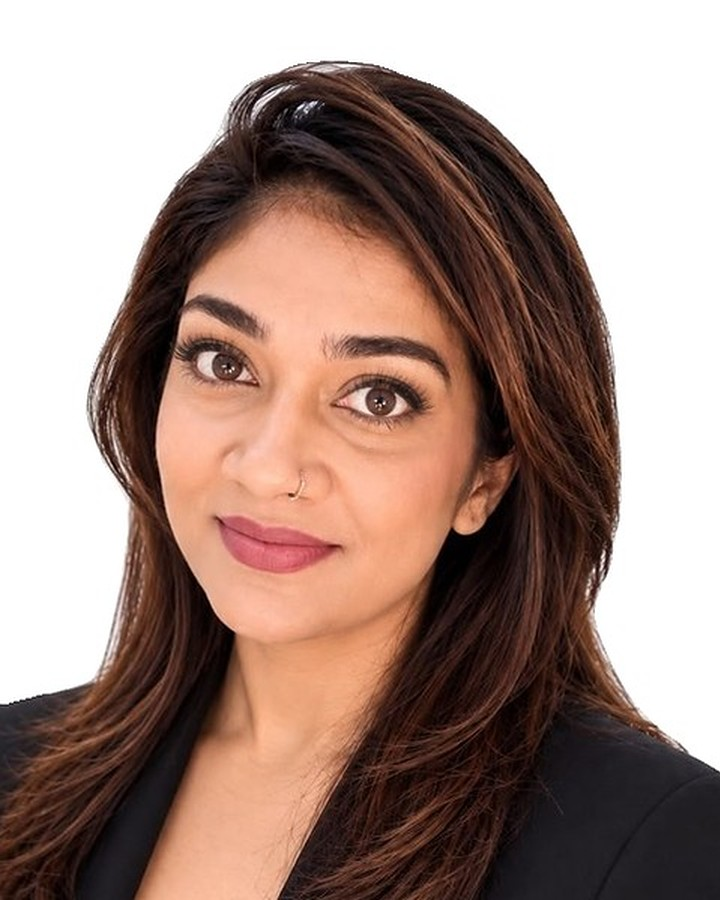
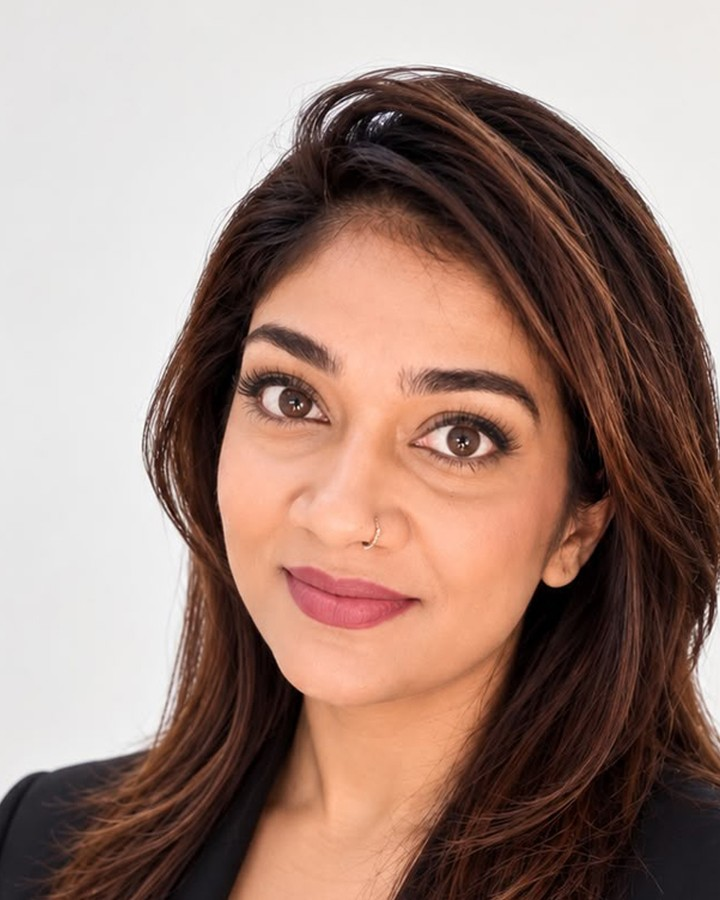
Full size photos: Avishna, Divya, Iqbal, Ali Sattar

diff --git a/meet-the-team.html b/meet-the-team.html
@@ -22,50 +22,50 @@
 <nav class="nav" id="nav" aria-label="Main"><a href="invest-in-dubai.html"><span>Invest in Dubai</span></a><a href="services.html"><span>Services</span></a><a href="areas.html"><span>Areas</span></a><a href="meet-the-team.html" aria-current=page><span>The Team</span></a><a href="contact.html"><span>Private Consultation</span></a><a class="nav-x" href="https://www.bayut.com/companies/7ei8ht6-properties-8883/" target="_blank" rel="noopener"><span>View Properties</span></a></nav>
 <div class="hdr-r"><button class="lang" type="button" aria-pressed="false" aria-label="Show key headings in Arabic"><span class="l-en">EN</span><span class="l-ar" lang="ar">عربي</span></button>
 <button class="burger" aria-label="Open menu" aria-expanded="false" aria-controls="nav"><i></i><i></i></button></div></header>
-<main id="main"><section class="sub-hero"><div class="sub-bg" data-speed="0.22"><picture class=""><source media="(max-width:760px)" srcset="img/x-night-m.webp?v=12"><img src="img/x-night.webp" alt="Downtown Dubai at night" fetchpriority=high decoding="async"></picture></div><div class="sub-shade"></div>
+<main id="main"><section class="sub-hero"><div class="sub-bg" data-speed="0.22"><picture class=""><source media="(max-width:760px)" srcset="img/x-night-m.webp?v=13"><img src="img/x-night.webp" alt="Downtown Dubai at night" fetchpriority=high decoding="async"></picture></div><div class="sub-shade"></div>
 <div class="sub-in"><p class="kicker"><span>The team</span></p><h1 class="bi d1"><span class="en">38 people.<br>One advisor for you.</span><span class="ar" lang="ar" dir="rtl">فريقنا</span></h1><p class="lead">Every client is given one named advisor. You can reach any of us directly: the numbers below are our own.</p></div></section>
-<section class="leaders solo wrap"><article class="leader rv"><div class="ph"><img src="img/t-fayyaz.webp?v=12" alt="Portrait of Fayyaz (Abu Mustafa) Sayani" loading="lazy" decoding="async"></div>
+<section class="leaders solo wrap"><article class="leader rv"><div class="ph"><img src="img/t-fayyaz.webp?v=13" alt="Portrait of Fayyaz (Abu Mustafa) Sayani" loading="lazy" decoding="async"></div>
 <div class="ld-c"><p class="kicker"><span>Founder &amp; CEO</span></p><h2 class="d2">Fayyaz (Abu Mustafa) Sayani</h2><p class="rera">RERA No. 28370</p><p class="mc"><a href="tel:+971506468786">+971 50 646 8786</a><a href="mailto:fayyaz@7ei8ht6properties.com">fayyaz@7ei8ht6properties.com</a><a href="https://wa.me/971506468786" target="_blank" rel="noopener" aria-label="WhatsApp Fayyaz (Abu Mustafa) Sayani">WhatsApp</a></p></div></article></section>
 <section class="team wrap"><div class="filters" role="group" aria-label="Filter the team">
 <button class="chip on" data-f="all">Everyone (37)</button><button class="chip" data-f="Director">Director</button><button class="chip" data-f="Associate Director">Associate Director</button><button class="chip" data-f="Office Manager">Office Manager</button><button class="chip" data-f="Executive Assistant">Executive Assistant</button><button class="chip" data-f="Administrative Assistant">Administrative Assistant</button><button class="chip" data-f="Property Consultant">Property Consultant</button><button class="chip" data-f="Office Clerk">Office Clerk</button><button class="chip" data-f="Admin Assistant">Admin Assistant</button>
 <label class="search"><span class="sr">Search the team</span><input type="search" id="tsearch" placeholder="Search by name"></label></div>
-<div class="grid"><article class="member" data-role="Director" data-name="zahir alimahomed"><div class="ph"><img src="img/t-zahir.webp?v=12" alt="Portrait of Zahir Alimahomed" loading="lazy" decoding="async"></div>
-<div class="mi"><h3>Zahir Alimahomed</h3><p class="role">Director</p><p class="rera">RERA No. 86228</p><p class="mc"><a href="tel:+971528447229">+971 52 844 7229</a><a href="https://wa.me/971528447229" target="_blank" rel="noopener" aria-label="WhatsApp Zahir Alimahomed">WhatsApp</a></p></div></article><article class="member" data-role="Associate Director" data-name="iqbal ahmed abdullah"><div class="ph"><img src="img/t-iqbal.webp?v=12" alt="Portrait of Iqbal Ahmed Abdullah" loading="lazy" decoding="async"></div>
-<div class="mi"><h3>Iqbal Ahmed Abdullah</h3><p class="role">Associate Director</p><p class="mc"><a href="tel:+971506770131">+971 50 677 0131</a><a href="https://wa.me/971506770131" target="_blank" rel="noopener" aria-label="WhatsApp Iqbal Ahmed Abdullah">WhatsApp</a></p></div></article><article class="member" data-role="Office Manager" data-name="asha nagarupillai"><div class="ph"><img src="img/t-asha.webp?v=12" alt="Portrait of Asha Nagarupillai" loading="lazy" decoding="async"></div>
-<div class="mi"><h3>Asha Nagarupillai</h3><p class="role">Office Manager</p><p class="mc"><a href="tel:+971552410447">+971 55 241 0447</a><a href="https://wa.me/971552410447" target="_blank" rel="noopener" aria-label="WhatsApp Asha Nagarupillai">WhatsApp</a></p></div></article><article class="member" data-role="Executive Assistant" data-name="aiswarya rajeev"><div class="ph"><img src="img/t-aiswarya.webp?v=12" alt="Portrait of Aiswarya Rajeev" loading="lazy" decoding="async"></div>
-<div class="mi"><h3>Aiswarya Rajeev</h3><p class="role">Executive Assistant</p><p class="mc"><a href="tel:+971588008311">+971 58 800 8311</a><a href="https://wa.me/971588008311" target="_blank" rel="noopener" aria-label="WhatsApp Aiswarya Rajeev">WhatsApp</a></p></div></article><article class="member" data-role="Administrative Assistant" data-name="avishna ganesh"><div class="ph"><img src="img/t-avishna.webp?v=12" alt="Portrait of Avishna Ganesh" loading="lazy" decoding="async"></div>
-<div class="mi"><h3>Avishna Ganesh</h3><p class="role">Administrative Assistant</p><p class="mc"><a href="tel:+971508625664">+971 50 862 5664</a><a href="https://wa.me/971508625664" target="_blank" rel="noopener" aria-label="WhatsApp Avishna Ganesh">WhatsApp</a></p></div></article><article class="member" data-role="Associate Director" data-name="muhammad ali abdul sattar"><div class="ph"><img src="img/t-alisattar.webp?v=12" alt="Portrait of Muhammad Ali Abdul Sattar" loading="lazy" decoding="async"></div>
-<div class="mi"><h3>Muhammad Ali Abdul Sattar</h3><p class="role">Associate Director</p><p class="mc"><a href="tel:+971554243200">+971 55 424 3200</a><a href="https://wa.me/971554243200" target="_blank" rel="noopener" aria-label="WhatsApp Muhammad Ali Abdul Sattar">WhatsApp</a></p></div></article><article class="member" data-role="Property Consultant" data-name="divya prakash"><div class="ph"><img src="img/t-divya.webp?v=12" alt="Portrait of Divya Prakash" loading="lazy" decoding="async"></div>
-<div class="mi"><h3>Divya Prakash</h3><p class="role">Property Consultant</p><p class="rera">RERA No. 100215</p><p class="mc"><a href="tel:+971501475717">+971 50 147 5717</a><a href="https://wa.me/971501475717" target="_blank" rel="noopener" aria-label="WhatsApp Divya Prakash">WhatsApp</a></p></div></article><article class="member" data-role="Property Consultant" data-name="khalid awadh"><div class="ph"><img src="img/t-khalid.webp?v=12" alt="Portrait of Khalid Awadh" loading="lazy" decoding="async"></div>
-<div class="mi"><h3>Khalid Awadh</h3><p class="role">Property Consultant</p><p class="rera">RERA No. 30126</p><p class="mc"><a href="tel:+971556207707">+971 55 620 7707</a><a href="https://wa.me/971556207707" target="_blank" rel="noopener" aria-label="WhatsApp Khalid Awadh">WhatsApp</a></p></div></article><article class="member" data-role="Property Consultant" data-name="yousaf nouman"><div class="ph"><img src="img/t-yousaf.webp?v=12" alt="Portrait of Yousaf Nouman" loading="lazy" decoding="async"></div>
-<div class="mi"><h3>Yousaf Nouman</h3><p class="role">Property Consultant</p><p class="rera">RERA No. 42532</p><p class="mc"><a href="tel:+971559168978">+971 55 916 8978</a><a href="https://wa.me/971559168978" target="_blank" rel="noopener" aria-label="WhatsApp Yousaf Nouman">WhatsApp</a></p></div></article><article class="member" data-role="Property Consultant" data-name="mohamed rimnaz"><div class="ph"><img src="img/t-rimnaz.webp?v=12" alt="Portrait of Mohamed Rimnaz" loading="lazy" decoding="async"></div>
-<div class="mi"><h3>Mohamed Rimnaz</h3><p class="role">Property Consultant</p><p class="rera">RERA No. 58866</p><p class="mc"><a href="tel:+971551082177">+971 55 108 2177</a><a href="https://wa.me/971563727202" target="_blank" rel="noopener" aria-label="WhatsApp Mohamed Rimnaz">WhatsApp</a></p></div></article><article class="member" data-role="Property Consultant" data-name="shabnam gulamzada"><div class="ph"><img src="img/t-shabnam.webp?v=12" alt="Portrait of Shabnam Gulamzada" loading="lazy" decoding="async"></div>
-<div class="mi"><h3>Shabnam Gulamzada</h3><p class="role">Property Consultant</p><p class="mc"><a href="tel:+971544786999">+971 54 478 6999</a><a href="https://wa.me/971544786999" target="_blank" rel="noopener" aria-label="WhatsApp Shabnam Gulamzada">WhatsApp</a></p></div></article><article class="member" data-role="Property Consultant" data-name="mohammed abdul arbaaz"><div class="ph"><img src="img/t-arbaaz.webp?v=12" alt="Portrait of Mohammed Abdul Arbaaz" loading="lazy" decoding="async"></div>
-<div class="mi"><h3>Mohammed Abdul Arbaaz</h3><p class="role">Property Consultant</p><p class="rera">RERA No. 88888</p><p class="mc"><a href="tel:+971553020319">+971 55 302 0319</a><a href="https://wa.me/971553020319" target="_blank" rel="noopener" aria-label="WhatsApp Mohammed Abdul Arbaaz">WhatsApp</a></p></div></article><article class="member" data-role="Property Consultant" data-name="rahmath khan mohammed"><div class="ph"><img src="img/t-kashif.webp?v=12" alt="Portrait of Rahmath Khan Mohammed" loading="lazy" decoding="async"></div>
-<div class="mi"><h3>Rahmath Khan Mohammed</h3><p class="role">Property Consultant</p><p class="rera">RERA No. 89787</p><p class="mc"><a href="tel:+971564946215">+971 56 494 6215</a><a href="https://wa.me/971564946215" target="_blank" rel="noopener" aria-label="WhatsApp Rahmath Khan Mohammed">WhatsApp</a></p></div></article><article class="member" data-role="Property Consultant" data-name="saoud faisal bayazeed"><div class="ph"><img src="img/t-saoud.webp?v=12" alt="Portrait of Saoud Faisal Bayazeed" loading="lazy" decoding="async"></div>
-<div class="mi"><h3>Saoud Faisal Bayazeed</h3><p class="role">Property Consultant</p><p class="rera">RERA No. 88889</p><p class="mc"><a href="tel:+971521298470">+971 52 129 8470</a><a href="https://wa.me/971521298470" target="_blank" rel="noopener" aria-label="WhatsApp Saoud Faisal Bayazeed">WhatsApp</a></p></div></article><article class="member" data-role="Property Consultant" data-name="muhammad zain alimahomed"><div class="ph"><img src="img/t-zain.webp?v=12" alt="Portrait of Muhammad Zain Alimahomed" loading="lazy" decoding="async"></div>
-<div class="mi"><h3>Muhammad Zain Alimahomed</h3><p class="role">Property Consultant</p><p class="mc"><a href="tel:+97144439780">+971 4 443 9780</a></p></div></article><article class="member" data-role="Office Clerk" data-name="teresa materum"><div class="ph"><img src="img/t-teresa.webp?v=12" alt="Portrait of Teresa Materum" loading="lazy" decoding="async"></div>
-<div class="mi"><h3>Teresa Materum</h3><p class="role">Office Clerk</p><p class="mc"><a href="tel:+97144439780">+971 4 443 9780</a></p></div></article><article class="member" data-role="Office Clerk" data-name="jessa abaya lopez"><div class="ph"><img src="img/t-jessa.webp?v=12" alt="Portrait of Jessa Abaya Lopez" loading="lazy" decoding="async"></div>
-<div class="mi"><h3>Jessa Abaya Lopez</h3><p class="role">Office Clerk</p><p class="mc"><a href="tel:+97144439780">+971 4 443 9780</a></p></div></article><article class="member" data-role="Office Clerk" data-name="rhea ann banares"><div class="ph"><img src="img/t-rhea.webp?v=12" alt="Portrait of Rhea Ann Banares" loading="lazy" decoding="async"></div>
-<div class="mi"><h3>Rhea Ann Banares</h3><p class="role">Office Clerk</p><p class="mc"><a href="tel:+97144439780">+971 4 443 9780</a></p></div></article><article class="member" data-role="Property Consultant" data-name="mohammed jeelani gulam"><div class="ph"><img src="img/t-jeelani.webp?v=12" alt="Portrait of Mohammed Jeelani Gulam" loading="lazy" decoding="async"></div>
-<div class="mi"><h3>Mohammed Jeelani Gulam</h3><p class="role">Property Consultant</p><p class="mc"><a href="tel:+97144439780">+971 4 443 9780</a></p></div></article><article class="member" data-role="Property Consultant" data-name="muhammad junaid azhar"><div class="ph"><img src="img/t-junaid.webp?v=12" alt="Portrait of Muhammad Junaid Azhar" loading="lazy" decoding="async"></div>
-<div class="mi"><h3>Muhammad Junaid Azhar</h3><p class="role">Property Consultant</p><p class="mc"><a href="tel:+97144439780">+971 4 443 9780</a></p></div></article><article class="member" data-role="Property Consultant" data-name="juned rafik ghanchi"><div class="ph"><img src="img/t-ghanchi.webp?v=12" alt="Portrait of Juned Rafik Ghanchi" loading="lazy" decoding="async"></div>
-<div class="mi"><h3>Juned Rafik Ghanchi</h3><p class="role">Property Consultant</p><p class="mc"><a href="tel:+97144439780">+971 4 443 9780</a></p></div></article><article class="member" data-role="Property Consultant" data-name="abdul rasheed"><div class="ph"><img src="img/t-rasheed.webp?v=12" alt="Portrait of Abdul Rasheed" loading="lazy" decoding="async"></div>
-<div class="mi"><h3>Abdul Rasheed</h3><p class="role">Property Consultant</p><p class="mc"><a href="tel:+97144439780">+971 4 443 9780</a></p></div></article><article class="member" data-role="Property Consultant" data-name="obaida al-jahmi"><div class="ph"><img src="img/t-obaida.webp?v=12" alt="Portrait of Obaida Al-Jahmi" loading="lazy" decoding="async"></div>
-<div class="mi"><h3>Obaida Al-Jahmi</h3><p class="role">Property Consultant</p><p class="mc"><a href="tel:+97144439780">+971 4 443 9780</a></p></div></article><article class="member" data-role="Property Consultant" data-name="frederick nkwenti"><div class="ph"><img src="img/t-fred.webp?v=12" alt="Portrait of Frederick Nkwenti" loading="lazy" decoding="async"></div>
-<div class="mi"><h3>Frederick Nkwenti</h3><p class="role">Property Consultant</p><p class="mc"><a href="tel:+97144439780">+971 4 443 9780</a></p></div></article><article class="member" data-role="Executive Assistant" data-name="blaise quinga"><div class="ph"><img src="img/t-blaise.webp?v=12" alt="Portrait of Blaise Quinga" loading="lazy" decoding="async"></div>
-<div class="mi"><h3>Blaise Quinga</h3><p class="role">Executive Assistant</p><p class="mc"><a href="tel:+97144439780">+971 4 443 9780</a></p></div></article><article class="member" data-role="Property Consultant" data-name="samer haj"><div class="ph"><img src="img/t-samer.webp?v=12" alt="Portrait of Samer Haj" loading="lazy" decoding="async"></div>
-<div class="mi"><h3>Samer Haj</h3><p class="role">Property Consultant</p><p class="mc"><a href="tel:+97144439780">+971 4 443 9780</a></p></div></article><article class="member" data-role="Property Consultant" data-name="muhammad kamran"><div class="ph"><img src="img/t-kamran.webp?v=12" alt="Portrait of Muhammad Kamran" loading="lazy" decoding="async"></div>
-<div class="mi"><h3>Muhammad Kamran</h3><p class="role">Property Consultant</p><p class="mc"><a href="tel:+97144439780">+971 4 443 9780</a></p></div></article><article class="member" data-role="Property Consultant" data-name="mushtaq ahmed"><div class="ph"><img src="img/t-mushtaq.webp?v=12" alt="Portrait of Mushtaq Ahmed" loading="lazy" decoding="async"></div>
-<div class="mi"><h3>Mushtaq Ahmed</h3><p class="role">Property Consultant</p><p class="mc"><a href="tel:+97144439780">+971 4 443 9780</a></p></div></article><article class="member" data-role="Property Consultant" data-name="nethin cot"><div class="ph"><img src="img/t-nethin.webp?v=12" alt="Portrait of Nethin Cot" loading="lazy" decoding="async"></div>
-<div class="mi"><h3>Nethin Cot</h3><p class="role">Property Consultant</p><p class="mc"><a href="tel:+97144439780">+971 4 443 9780</a></p></div></article><article class="member" data-role="Property Consultant" data-name="nabil peerally"><div class="ph"><img src="img/t-nabil.webp?v=12" alt="Portrait of Nabil Peerally" loading="lazy" decoding="async"></div>
-<div class="mi"><h3>Nabil Peerally</h3><p class="role">Property Consultant</p><p class="mc"><a href="tel:+97144439780">+971 4 443 9780</a></p></div></article><article class="member" data-role="Property Consultant" data-name="nikhil ahmed"><div class="ph"><img src="img/t-nikhil.webp?v=12" alt="Portrait of Nikhil Ahmed" loading="lazy" decoding="async"></div>
-<div class="mi"><h3>Nikhil Ahmed</h3><p class="role">Property Consultant</p><p class="mc"><a href="tel:+97144439780">+971 4 443 9780</a></p></div></article><article class="member" data-role="Property Consultant" data-name="malik muhammad ishaq"><div class="ph"><img src="img/t-malik.webp?v=12" alt="Portrait of Malik Muhammad Ishaq" loading="lazy" decoding="async"></div>
-<div class="mi"><h3>Malik Muhammad Ishaq</h3><p class="role">Property Consultant</p><p class="mc"><a href="tel:+97144439780">+971 4 443 9780</a></p></div></article><article class="member" data-role="Property Consultant" data-name="mahboob ali khan mir"><div class="ph"><img src="img/t-mahboob.webp?v=12" alt="Portrait of Mahboob Ali Khan Mir" loading="lazy" decoding="async"></div>
-<div class="mi"><h3>Mahboob Ali Khan Mir</h3><p class="role">Property Consultant</p><p class="mc"><a href="tel:+97144439780">+971 4 443 9780</a></p></div></article><article class="member" data-role="Property Consultant" data-name="faisal murtaza"><div class="ph"><img src="img/t-faisal.webp?v=12" alt="Portrait of Faisal Murtaza" loading="lazy" decoding="async"></div>
-<div class="mi"><h3>Faisal Murtaza</h3><p class="role">Property Consultant</p><p class="mc"><a href="tel:+97144439780">+971 4 443 9780</a></p></div></article><article class="member" data-role="Property Consultant" data-name="ashfaque shaikh"><div class="ph"><img src="img/t-ashfaque.webp?v=12" alt="Portrait of Ashfaque Shaikh" loading="lazy" decoding="async"></div>
-<div class="mi"><h3>Ashfaque Shaikh</h3><p class="role">Property Consultant</p><p class="mc"><a href="tel:+97144439780">+971 4 443 9780</a></p></div></article><article class="member" data-role="Property Consultant" data-name="balal asad"><div class="ph"><img src="img/t-balal.webp?v=12" alt="Portrait of Balal Asad" loading="lazy" decoding="async"></div>
-<div class="mi"><h3>Balal Asad</h3><p class="role">Property Consultant</p><p class="mc"><a href="tel:+97144439780">+971 4 443 9780</a></p></div></article><article class="member" data-role="Admin Assistant" data-name="hazel heramil"><div class="ph"><img src="img/t-hazel.webp?v=12" alt="Portrait of Hazel Heramil" loading="lazy" decoding="async"></div>
+<div class="grid"><article class="member" data-role="Director" data-name="zahir alimahomed"><div class="ph"><img src="img/t-zahir.webp?v=13" alt="Portrait of Zahir Alimahomed" loading="lazy" decoding="async"></div>
+<div class="mi"><h3>Zahir Alimahomed</h3><p class="role">Director</p><p class="rera">RERA No. 86228</p><p class="mc"><a href="tel:+971528447229">+971 52 844 7229</a><a href="https://wa.me/971528447229" target="_blank" rel="noopener" aria-label="WhatsApp Zahir Alimahomed">WhatsApp</a></p></div></article><article class="member" data-role="Associate Director" data-name="iqbal ahmed abdullah"><div class="ph"><img src="img/t-iqbal.webp?v=13" alt="Portrait of Iqbal Ahmed Abdullah" loading="lazy" decoding="async"></div>
+<div class="mi"><h3>Iqbal Ahmed Abdullah</h3><p class="role">Associate Director</p><p class="mc"><a href="tel:+971506770131">+971 50 677 0131</a><a href="https://wa.me/971506770131" target="_blank" rel="noopener" aria-label="WhatsApp Iqbal Ahmed Abdullah">WhatsApp</a></p></div></article><article class="member" data-role="Office Manager" data-name="asha nagarupillai"><div class="ph"><img src="img/t-asha.webp?v=13" alt="Portrait of Asha Nagarupillai" loading="lazy" decoding="async"></div>
+<div class="mi"><h3>Asha Nagarupillai</h3><p class="role">Office Manager</p><p class="mc"><a href="tel:+971552410447">+971 55 241 0447</a><a href="https://wa.me/971552410447" target="_blank" rel="noopener" aria-label="WhatsApp Asha Nagarupillai">WhatsApp</a></p></div></article><article class="member" data-role="Executive Assistant" data-name="aiswarya rajeev"><div class="ph"><img src="img/t-aiswarya.webp?v=13" alt="Portrait of Aiswarya Rajeev" loading="lazy" decoding="async"></div>
+<div class="mi"><h3>Aiswarya Rajeev</h3><p class="role">Executive Assistant</p><p class="mc"><a href="tel:+971588008311">+971 58 800 8311</a><a href="https://wa.me/971588008311" target="_blank" rel="noopener" aria-label="WhatsApp Aiswarya Rajeev">WhatsApp</a></p></div></article><article class="member" data-role="Administrative Assistant" data-name="avishna ganesh"><div class="ph"><img src="img/t-avishna.webp?v=13" alt="Portrait of Avishna Ganesh" loading="lazy" decoding="async"></div>
+<div class="mi"><h3>Avishna Ganesh</h3><p class="role">Administrative Assistant</p><p class="mc"><a href="tel:+971508625664">+971 50 862 5664</a><a href="https://wa.me/971508625664" target="_blank" rel="noopener" aria-label="WhatsApp Avishna Ganesh">WhatsApp</a></p></div></article><article class="member" data-role="Associate Director" data-name="muhammad ali abdul sattar"><div class="ph"><img src="img/t-alisattar.webp?v=13" alt="Portrait of Muhammad Ali Abdul Sattar" loading="lazy" decoding="async"></div>
+<div class="mi"><h3>Muhammad Ali Abdul Sattar</h3><p class="role">Associate Director</p><p class="mc"><a href="tel:+971554243200">+971 55 424 3200</a><a href="https://wa.me/971554243200" target="_blank" rel="noopener" aria-label="WhatsApp Muhammad Ali Abdul Sattar">WhatsApp</a></p></div></article><article class="member" data-role="Property Consultant" data-name="divya prakash"><div class="ph"><img src="img/t-divya.webp?v=13" alt="Portrait of Divya Prakash" loading="lazy" decoding="async"></div>
+<div class="mi"><h3>Divya Prakash</h3><p class="role">Property Consultant</p><p class="rera">RERA No. 100215</p><p class="mc"><a href="tel:+971501475717">+971 50 147 5717</a><a href="https://wa.me/971501475717" target="_blank" rel="noopener" aria-label="WhatsApp Divya Prakash">WhatsApp</a></p></div></article><article class="member" data-role="Property Consultant" data-name="khalid awadh"><div class="ph"><img src="img/t-khalid.webp?v=13" alt="Portrait of Khalid Awadh" loading="lazy" decoding="async"></div>
+<div class="mi"><h3>Khalid Awadh</h3><p class="role">Property Consultant</p><p class="rera">RERA No. 30126</p><p class="mc"><a href="tel:+971556207707">+971 55 620 7707</a><a href="https://wa.me/971556207707" target="_blank" rel="noopener" aria-label="WhatsApp Khalid Awadh">WhatsApp</a></p></div></article><article class="member" data-role="Property Consultant" data-name="yousaf nouman"><div class="ph"><img src="img/t-yousaf.webp?v=13" alt="Portrait of Yousaf Nouman" loading="lazy" decoding="async"></div>
+<div class="mi"><h3>Yousaf Nouman</h3><p class="role">Property Consultant</p><p class="rera">RERA No. 42532</p><p class="mc"><a href="tel:+971559168978">+971 55 916 8978</a><a href="https://wa.me/971559168978" target="_blank" rel="noopener" aria-label="WhatsApp Yousaf Nouman">WhatsApp</a></p></div></article><article class="member" data-role="Property Consultant" data-name="mohamed rimnaz"><div class="ph"><img src="img/t-rimnaz.webp?v=13" alt="Portrait of Mohamed Rimnaz" loading="lazy" decoding="async"></div>
+<div class="mi"><h3>Mohamed Rimnaz</h3><p class="role">Property Consultant</p><p class="rera">RERA No. 58866</p><p class="mc"><a href="tel:+971551082177">+971 55 108 2177</a><a href="https://wa.me/971563727202" target="_blank" rel="noopener" aria-label="WhatsApp Mohamed Rimnaz">WhatsApp</a></p></div></article><article class="member" data-role="Property Consultant" data-name="shabnam gulamzada"><div class="ph"><img src="img/t-shabnam.webp?v=13" alt="Portrait of Shabnam Gulamzada" loading="lazy" decoding="async"></div>
+<div class="mi"><h3>Shabnam Gulamzada</h3><p class="role">Property Consultant</p><p class="mc"><a href="tel:+971544786999">+971 54 478 6999</a><a href="https://wa.me/971544786999" target="_blank" rel="noopener" aria-label="WhatsApp Shabnam Gulamzada">WhatsApp</a></p></div></article><article class="member" data-role="Property Consultant" data-name="mohammed abdul arbaaz"><div class="ph"><img src="img/t-arbaaz.webp?v=13" alt="Portrait of Mohammed Abdul Arbaaz" loading="lazy" decoding="async"></div>
+<div class="mi"><h3>Mohammed Abdul Arbaaz</h3><p class="role">Property Consultant</p><p class="rera">RERA No. 88888</p><p class="mc"><a href="tel:+971553020319">+971 55 302 0319</a><a href="https://wa.me/971553020319" target="_blank" rel="noopener" aria-label="WhatsApp Mohammed Abdul Arbaaz">WhatsApp</a></p></div></article><article class="member" data-role="Property Consultant" data-name="rahmath khan mohammed"><div class="ph"><img src="img/t-kashif.webp?v=13" alt="Portrait of Rahmath Khan Mohammed" loading="lazy" decoding="async"></div>
+<div class="mi"><h3>Rahmath Khan Mohammed</h3><p class="role">Property Consultant</p><p class="rera">RERA No. 89787</p><p class="mc"><a href="tel:+971564946215">+971 56 494 6215</a><a href="https://wa.me/971564946215" target="_blank" rel="noopener" aria-label="WhatsApp Rahmath Khan Mohammed">WhatsApp</a></p></div></article><article class="member" data-role="Property Consultant" data-name="saoud faisal bayazeed"><div class="ph"><img src="img/t-saoud.webp?v=13" alt="Portrait of Saoud Faisal Bayazeed" loading="lazy" decoding="async"></div>
+<div class="mi"><h3>Saoud Faisal Bayazeed</h3><p class="role">Property Consultant</p><p class="rera">RERA No. 88889</p><p class="mc"><a href="tel:+971521298470">+971 52 129 8470</a><a href="https://wa.me/971521298470" target="_blank" rel="noopener" aria-label="WhatsApp Saoud Faisal Bayazeed">WhatsApp</a></p></div></article><article class="member" data-role="Property Consultant" data-name="muhammad zain alimahomed"><div class="ph"><img src="img/t-zain.webp?v=13" alt="Portrait of Muhammad Zain Alimahomed" loading="lazy" decoding="async"></div>
+<div class="mi"><h3>Muhammad Zain Alimahomed</h3><p class="role">Property Consultant</p><p class="mc"><a href="tel:+97144439780">+971 4 443 9780</a></p></div></article><article class="member" data-role="Office Clerk" data-name="teresa materum"><div class="ph"><img src="img/t-teresa.webp?v=13" alt="Portrait of Teresa Materum" loading="lazy" decoding="async"></div>
+<div class="mi"><h3>Teresa Materum</h3><p class="role">Office Clerk</p><p class="mc"><a href="tel:+97144439780">+971 4 443 9780</a></p></div></article><article class="member" data-role="Office Clerk" data-name="jessa abaya lopez"><div class="ph"><img src="img/t-jessa.webp?v=13" alt="Portrait of Jessa Abaya Lopez" loading="lazy" decoding="async"></div>
+<div class="mi"><h3>Jessa Abaya Lopez</h3><p class="role">Office Clerk</p><p class="mc"><a href="tel:+97144439780">+971 4 443 9780</a></p></div></article><article class="member" data-role="Office Clerk" data-name="rhea ann banares"><div class="ph"><img src="img/t-rhea.webp?v=13" alt="Portrait of Rhea Ann Banares" loading="lazy" decoding="async"></div>
+<div class="mi"><h3>Rhea Ann Banares</h3><p class="role">Office Clerk</p><p class="mc"><a href="tel:+97144439780">+971 4 443 9780</a></p></div></article><article class="member" data-role="Property Consultant" data-name="mohammed jeelani gulam"><div class="ph"><img src="img/t-jeelani.webp?v=13" alt="Portrait of Mohammed Jeelani Gulam" loading="lazy" decoding="async"></div>
+<div class="mi"><h3>Mohammed Jeelani Gulam</h3><p class="role">Property Consultant</p><p class="mc"><a href="tel:+97144439780">+971 4 443 9780</a></p></div></article><article class="member" data-role="Property Consultant" data-name="muhammad junaid azhar"><div class="ph"><img src="img/t-junaid.webp?v=13" alt="Portrait of Muhammad Junaid Azhar" loading="lazy" decoding="async"></div>
+<div class="mi"><h3>Muhammad Junaid Azhar</h3><p class="role">Property Consultant</p><p class="mc"><a href="tel:+97144439780">+971 4 443 9780</a></p></div></article><article class="member" data-role="Property Consultant" data-name="juned rafik ghanchi"><div class="ph"><img src="img/t-ghanchi.webp?v=13" alt="Portrait of Juned Rafik Ghanchi" loading="lazy" decoding="async"></div>
+<div class="mi"><h3>Juned Rafik Ghanchi</h3><p class="role">Property Consultant</p><p class="mc"><a href="tel:+97144439780">+971 4 443 9780</a></p></div></article><article class="member" data-role="Property Consultant" data-name="abdul rasheed"><div class="ph"><img src="img/t-rasheed.webp?v=13" alt="Portrait of Abdul Rasheed" loading="lazy" decoding="async"></div>
+<div class="mi"><h3>Abdul Rasheed</h3><p class="role">Property Consultant</p><p class="mc"><a href="tel:+97144439780">+971 4 443 9780</a></p></div></article><article class="member" data-role="Property Consultant" data-name="obaida al-jahmi"><div class="ph"><img src="img/t-obaida.webp?v=13" alt="Portrait of Obaida Al-Jahmi" loading="lazy" decoding="async"></div>
+<div class="mi"><h3>Obaida Al-Jahmi</h3><p class="role">Property Consultant</p><p class="mc"><a href="tel:+97144439780">+971 4 443 9780</a></p></div></article><article class="member" data-role="Property Consultant" data-name="frederick nkwenti"><div class="ph"><img src="img/t-fred.webp?v=13" alt="Portrait of Frederick Nkwenti" loading="lazy" decoding="async"></div>
+<div class="mi"><h3>Frederick Nkwenti</h3><p class="role">Property Consultant</p><p class="mc"><a href="tel:+97144439780">+971 4 443 9780</a></p></div></article><article class="member" data-role="Executive Assistant" data-name="blaise quinga"><div class="ph"><img src="img/t-blaise.webp?v=13" alt="Portrait of Blaise Quinga" loading="lazy" decoding="async"></div>
+<div class="mi"><h3>Blaise Quinga</h3><p class="role">Executive Assistant</p><p class="mc"><a href="tel:+97144439780">+971 4 443 9780</a></p></div></article><article class="member" data-role="Property Consultant" data-name="samer haj"><div class="ph"><img src="img/t-samer.webp?v=13" alt="Portrait of Samer Haj" loading="lazy" decoding="async"></div>
+<div class="mi"><h3>Samer Haj</h3><p class="role">Property Consultant</p><p class="mc"><a href="tel:+97144439780">+971 4 443 9780</a></p></div></article><article class="member" data-role="Property Consultant" data-name="muhammad kamran"><div class="ph"><img src="img/t-kamran.webp?v=13" alt="Portrait of Muhammad Kamran" loading="lazy" decoding="async"></div>
+<div class="mi"><h3>Muhammad Kamran</h3><p class="role">Property Consultant</p><p class="mc"><a href="tel:+97144439780">+971 4 443 9780</a></p></div></article><article class="member" data-role="Property Consultant" data-name="mushtaq ahmed"><div class="ph"><img src="img/t-mushtaq.webp?v=13" alt="Portrait of Mushtaq Ahmed" loading="lazy" decoding="async"></div>
+<div class="mi"><h3>Mushtaq Ahmed</h3><p class="role">Property Consultant</p><p class="mc"><a href="tel:+97144439780">+971 4 443 9780</a></p></div></article><article class="member" data-role="Property Consultant" data-name="nethin cot"><div class="ph"><img src="img/t-nethin.webp?v=13" alt="Portrait of Nethin Cot" loading="lazy" decoding="async"></div>
+<div class="mi"><h3>Nethin Cot</h3><p class="role">Property Consultant</p><p class="mc"><a href="tel:+97144439780">+971 4 443 9780</a></p></div></article><article class="member" data-role="Property Consultant" data-name="nabil peerally"><div class="ph"><img src="img/t-nabil.webp?v=13" alt="Portrait of Nabil Peerally" loading="lazy" decoding="async"></div>
+<div class="mi"><h3>Nabil Peerally</h3><p class="role">Property Consultant</p><p class="mc"><a href="tel:+97144439780">+971 4 443 9780</a></p></div></article><article class="member" data-role="Property Consultant" data-name="nikhil ahmed"><div class="ph"><img src="img/t-nikhil.webp?v=13" alt="Portrait of Nikhil Ahmed" loading="lazy" decoding="async"></div>
+<div class="mi"><h3>Nikhil Ahmed</h3><p class="role">Property Consultant</p><p class="mc"><a href="tel:+97144439780">+971 4 443 9780</a></p></div></article><article class="member" data-role="Property Consultant" data-name="malik muhammad ishaq"><div class="ph"><img src="img/t-malik.webp?v=13" alt="Portrait of Malik Muhammad Ishaq" loading="lazy" decoding="async"></div>
+<div class="mi"><h3>Malik Muhammad Ishaq</h3><p class="role">Property Consultant</p><p class="mc"><a href="tel:+97144439780">+971 4 443 9780</a></p></div></article><article class="member" data-role="Property Consultant" data-name="mahboob ali khan mir"><div class="ph"><img src="img/t-mahboob.webp?v=13" alt="Portrait of Mahboob Ali Khan Mir" loading="lazy" decoding="async"></div>
+<div class="mi"><h3>Mahboob Ali Khan Mir</h3><p class="role">Property Consultant</p><p class="mc"><a href="tel:+97144439780">+971 4 443 9780</a></p></div></article><article class="member" data-role="Property Consultant" data-name="faisal murtaza"><div class="ph"><img src="img/t-faisal.webp?v=13" alt="Portrait of Faisal Murtaza" loading="lazy" decoding="async"></div>
+<div class="mi"><h3>Faisal Murtaza</h3><p class="role">Property Consultant</p><p class="mc"><a href="tel:+97144439780">+971 4 443 9780</a></p></div></article><article class="member" data-role="Property Consultant" data-name="ashfaque shaikh"><div class="ph"><img src="img/t-ashfaque.webp?v=13" alt="Portrait of Ashfaque Shaikh" loading="lazy" decoding="async"></div>
+<div class="mi"><h3>Ashfaque Shaikh</h3><p class="role">Property Consultant</p><p class="mc"><a href="tel:+97144439780">+971 4 443 9780</a></p></div></article><article class="member" data-role="Property Consultant" data-name="balal asad"><div class="ph"><img src="img/t-balal.webp?v=13" alt="Portrait of Balal Asad" loading="lazy" decoding="async"></div>
+<div class="mi"><h3>Balal Asad</h3><p class="role">Property Consultant</p><p class="mc"><a href="tel:+97144439780">+971 4 443 9780</a></p></div></article><article class="member" data-role="Admin Assistant" data-name="hazel heramil"><div class="ph"><img src="img/t-hazel.webp?v=13" alt="Portrait of Hazel Heramil" loading="lazy" decoding="async"></div>
 <div class="mi"><h3>Hazel Heramil</h3><p class="role">Admin Assistant</p><p class="mc"><a href="tel:+97144439780">+971 4 443 9780</a></p></div></article></div><p class="empty" hidden>No one matches that search.</p></section>
 <section class="talk wrap"><svg class="khatam" viewBox="0 0 40 40" aria-hidden="true"><path d="M20 3 25 15 37 20 25 25 20 37 15 25 3 20 15 15Z M8 8 20 13 32 8 27 20 32 32 20 27 8 32 13 20Z"/></svg><p class="kicker rv"><span>Where to begin</span></p><h2 class="bi d1 rv"><span class="en">Not sure who to call?</span><span class="ar" lang="ar" dir="rtl">لا تعرف بمن تتصل؟</span></h2><p class="lead rv">Start a brief and we will match you with the right advisor.</p><div class="ctas rv"><a class="btn" href="contact.html#consult"><span>Begin your brief</span></a></div></section></main>
 <a class="wa-float" href="https://wa.me/971506468786?text=Hello%207ei8ht6%20Properties%2C%20I%20would%20like%20to%20speak%20with%20an%20advisor." target="_blank" rel="noopener" aria-label="Message an advisor on WhatsApp"><svg viewBox="0 0 32 32" width="20" height="20" aria-hidden="true"><path fill="currentColor" d="M16 3a13 13 0 0 0-11.2 19.6L3 29l6.6-1.7A13 13 0 1 0 16 3zm0 23.7c-2 0-4-.6-5.7-1.6l-.4-.2-3.9 1 1-3.8-.3-.4A10.7 10.7 0 1 1 16 26.7zm5.9-8c-.3-.2-1.9-1-2.2-1s-.5-.2-.7.2l-1 1.2c-.2.2-.4.2-.7.1a8.8 8.8 0 0 1-4.4-3.8c-.3-.6.3-.5 1-1.8.1-.2 0-.4 0-.6l-1-2.4c-.3-.6-.5-.5-.7-.5h-.6a1.2 1.2 0 0 0-.9.4 3.6 3.6 0 0 0-1.1 2.7 6.3 6.3 0 0 0 1.3 3.3 14.4 14.4 0 0 0 5.5 4.9c2 .9 2.9 1 3.9.8a3.3 3.3 0 0 0 2.2-1.5 2.7 2.7 0 0 0 .2-1.5c-.1-.2-.3-.3-.6-.4z"/></svg><span>WhatsApp</span></a>

diff --git a/index.html b/index.html
@@ -60,7 +60,7 @@
 <section class="team-band"><div class="wrap tb">
 <div class="tb-copy"><p class="kicker rv"><span>The people</span></p><h2 class="bi d2 rv"><span class="en">38 people.<br>One advisor for you.</span><span class="ar" lang="ar" dir="rtl">فريق من 38 شخصًا<br>ومستشار واحد لك</span></h2>
 <p class="body rv">Led by our founder, Fayyaz (Abu Mustafa) Sayani, and director Zahir Alimahomed. Every client is given one named advisor, reachable directly by phone, email and WhatsApp.</p><a class="tl rv" href="meet-the-team.html">Meet the team</a></div>
-<div class="tb-faces" aria-hidden="true"><img src="img/t-fayyaz.webp?v=12" alt="" loading="lazy" decoding="async"><img src="img/t-zahir.webp?v=12" alt="" loading="lazy" decoding="async"><img src="img/t-iqbal.webp?v=12" alt="" loading="lazy" decoding="async"><img src="img/t-asha.webp?v=12" alt="" loading="lazy" decoding="async"><img src="img/t-aiswarya.webp?v=12" alt="" loading="lazy" decoding="async"><img src="img/t-avishna.webp?v=12" alt="" loading="lazy" decoding="async"><img src="img/t-alisattar.webp?v=12" alt="" loading="lazy" decoding="async"><img src="img/t-divya.webp?v=12" alt="" loading="lazy" decoding="async"><img src="img/t-khalid.webp?v=12" alt="" loading="lazy" decoding="async"></div></div></section>
+<div class="tb-faces" aria-hidden="true"><img src="img/t-fayyaz.webp?v=13" alt="" loading="lazy" decoding="async"><img src="img/t-zahir.webp?v=13" alt="" loading="lazy" decoding="async"><img src="img/t-iqbal.webp?v=13" alt="" loading="lazy" decoding="async"><img src="img/t-asha.webp?v=13" alt="" loading="lazy" decoding="async"><img src="img/t-aiswarya.webp?v=13" alt="" loading="lazy" decoding="async"><img src="img/t-avishna.webp?v=13" alt="" loading="lazy" decoding="async"><img src="img/t-alisattar.webp?v=13" alt="" loading="lazy" decoding="async"><img src="img/t-divya.webp?v=13" alt="" loading="lazy" decoding="async"><img src="img/t-khalid.webp?v=13" alt="" loading="lazy" decoding="async"></div></div></section>
 
 <section class="viewing"><div class="v-bg" data-speed="0.18"><picture class=""><source media="(max-width:760px)" srcset="img/x-lake-m.webp"><img src="img/x-lake.webp" alt="A lone abra on the lake beneath the Dubai Fountain at night" loading=lazy decoding="async"></picture></div><div class="v-shade"></div>
 <div class="v-in wrap"><p class="kicker"><span>Concierge</span></p><h2 class="bi d1"><span class="en">Book a private viewing.</span><span class="ar" lang="ar" dir="rtl">احجز معاينة خاصة</span></h2>
